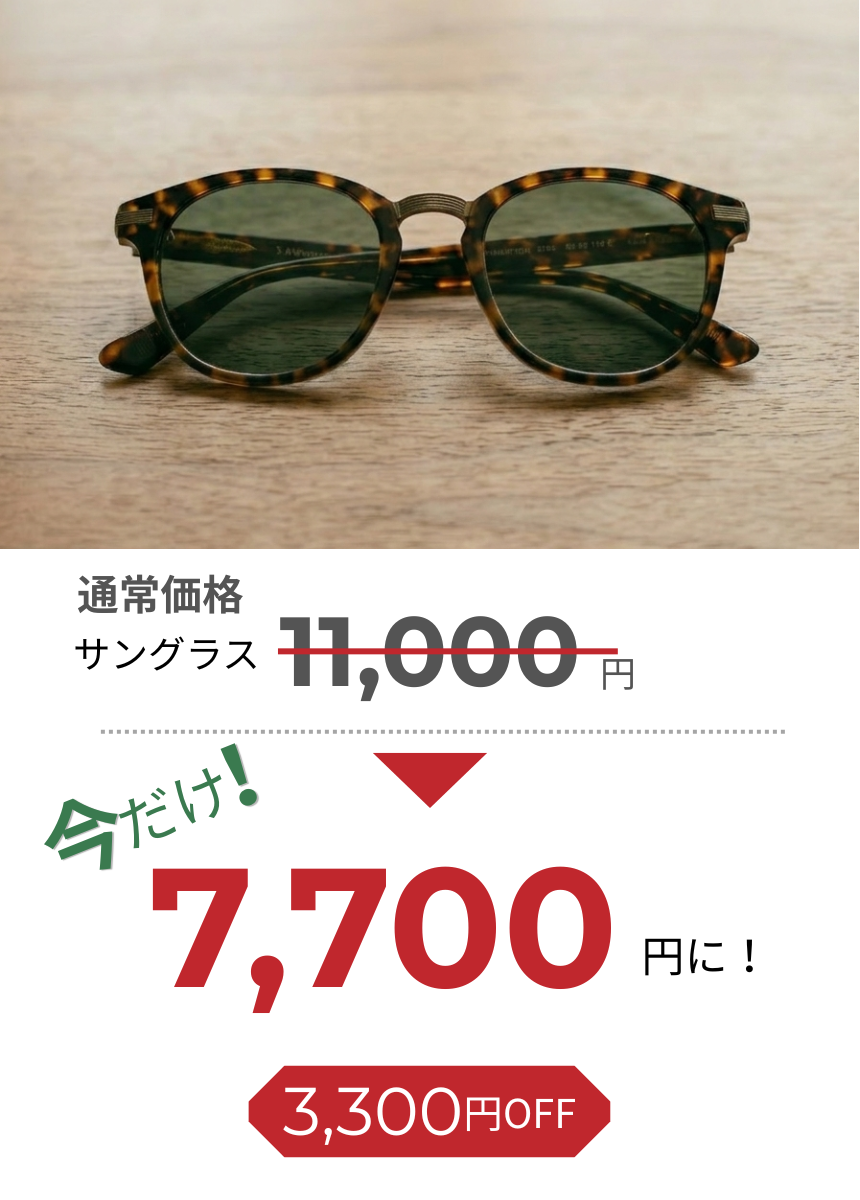
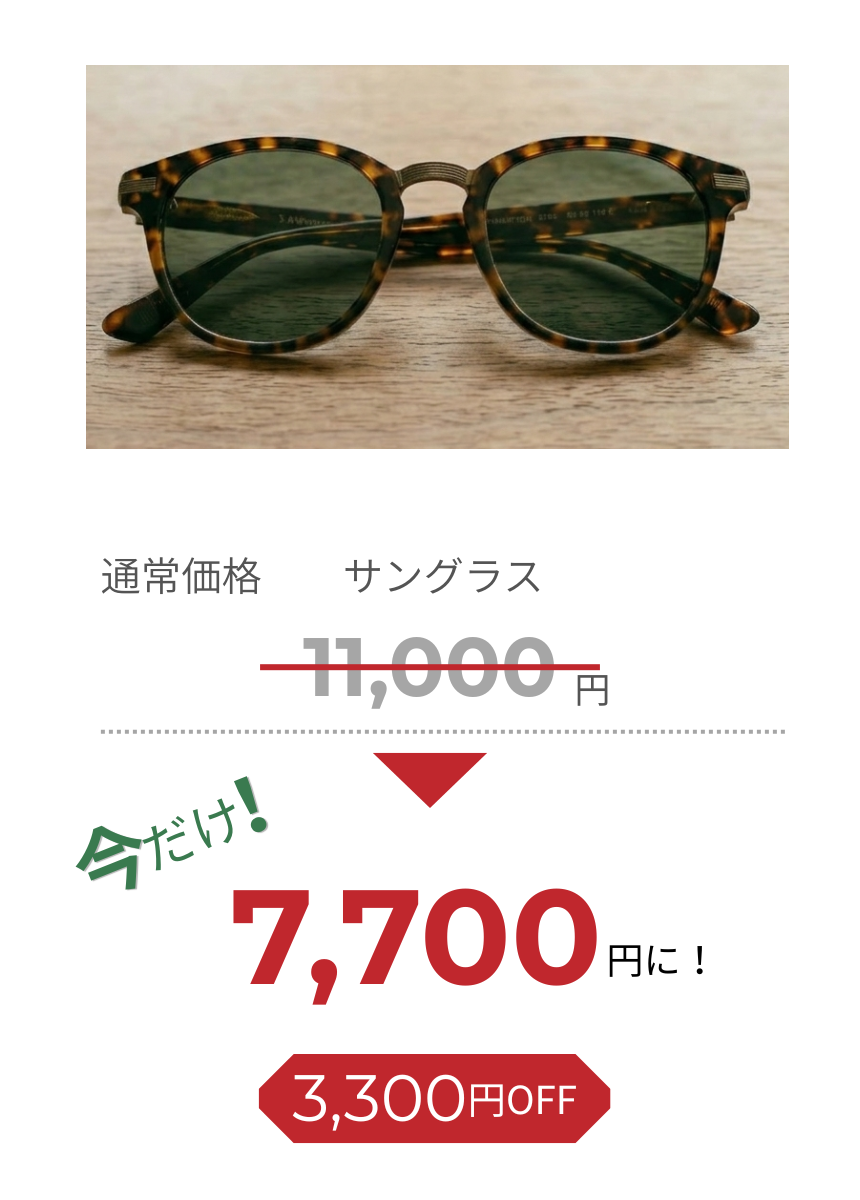
スマホFV画像化・遠近両用セクション改善・お得情報カード更新
- スマホFV: Illustratorで作成した1枚画像(FVSUMAHO.png)に差替、CTAボタンをオーバーレイ
- 遠近両用セクション: 「追加料金0円」を主役に再設計、ビジュアル式・チェックリスト追加
- 遠近両用: 注釈改善（薄型・コーティング・レンズのグレード変更等は別途料金）
- 遠近両用: レンズグレード詳細へのリンク追加
- お得情報: サブテキストをGWスロット訴求に変更
- お得情報: スマホCanvaカード更新（写真入りハイブリッド版）
- メガネアイコンをmegane1.svgに差替
- 不要画像削除（13200.png, A.png）

diff --git a/gw-fair.html b/gw-fair.html
@@ -1057,58 +1057,50 @@ footer {
     padding:0;
     background:var(--bg);
   }
-  /* 写真① — スマホ上側 */
+  /* ── スマホFV：1枚画像 + CTAボタン ── */
+  #hero {
+    min-height:auto;
+    flex-direction:column;
+    padding:0;
+  }
   .hero-photo-single {
     position:relative;width:100%;
     order:1;
-    overflow:hidden;
-    height:40vw;
+    overflow:visible;
+    top:auto;right:auto;bottom:auto;
+    height:auto;
   }
   .hero-photo-single img {
-    content:url('images/hero/hero-products-sp-top.png');
-    width:100%;height:100%;
-    object-fit:cover;
-    object-position:center center;
+    content:url('images/hero/FVSUMAHO.png');
+    width:100%;height:auto;
     display:block;
+    transform:none;
   }
   #hero::after { display:none; }
-  /* 緑カード① — GWフェア + スロットクーポンチャンス */
   .hw {
-    position:relative;
-    z-index:3;
-    width:100%;max-width:100%;
-    background:linear-gradient(90deg, #2E5A3A 0%, #3A7A4F 50%, #2E5A3A 100%);
-    padding:10px 24px 12px;
-    align-items:center;text-align:center;
-    transform:none;
+    display:none !important;
+  }
+  .hero-reel-deco { display:none !important; }
+  .hero-photo-sp-bottom { display:none !important; }
+  /* スマホ用CTA — 画像の上に重ねる（注釈と5500の間） */
+  .hero-sp-cta {
+    display:flex !important;
+    flex-direction:column;
+    align-items:center;
     order:2;
-    margin-top:-2px;
+    position:absolute;
+    bottom:33%;
+    left:0;right:0;
+    z-index:10;
+    background:none;
+    padding:0;
   }
-  .hw::before {
-    content:'';position:absolute;inset:0;
-    background:url('images/hero/slot-pattern.png') 80% 85%/130% auto no-repeat;
-    opacity:0.8;mix-blend-mode:multiply;pointer-events:none;z-index:0;
-  }
-  .hw::after { display:none !important; }
-  /* 写真② — スマホ：緑の後ろ */
-  .hero-photo-sp-bottom {
-    display:block;
-    width:100%;
-    order:3;
-    overflow:hidden;
-    height:40vw;
-    margin-top:-2px;
-  }
-  .hero-photo-sp-bottom img {
-    width:100%;height:100%;object-fit:cover;display:block;
-  }
-  /* スマホ用CTA — 非表示（hw内に統合） */
-  .hero-sp-cta { display:none !important; }
-  .hero-sp-cta .h-offer-unit { font-size:clamp(20px,5.5vw,28px);-webkit-text-stroke:2px #fff; }
-  .hero-sp-cta .btn-h { margin-top:12px; }
-  .hero-sp-cta-wrap { display:flex;flex-direction:column;align-items:flex-start;width:fit-content;margin:12px auto 0; }
+  .hero-sp-cta .h-offer-bottom-label { display:none; }
+  .hero-sp-cta .h-offer-line { display:none; }
+  .hero-sp-cta .btn-h { margin-top:0;font-size:15px;padding:10px 36px; }
+  .hero-sp-cta-wrap { display:flex;flex-direction:column;align-items:center;width:100%; }
   .hero-sp-cta-wrap .btn-h { width:auto;display:inline-block; }
-  .hero-sp-cta .h-note { margin-top:10px;margin-left:-76px;font-size:9px;color:rgba(255,255,255,0.85);line-height:1.7;text-align:left; }
+  .hero-sp-cta .h-note { display:none; }
   .h-gw-main { font-size:clamp(32px,9vw,44px);text-align:left;margin-bottom:0; }
   .h-title-group { align-self:flex-start;align-items:flex-start;margin-left:24px; }
   .h-offer-top-label { text-align:left; }
@@ -1823,28 +1815,95 @@ footer {
   background:linear-gradient(135deg, #fff 0%, #F0F8F2 100%);
   box-shadow:0 4px 20px rgba(58,122,79,0.1);
 }
-.pex-enkin-main {
-  font-size:clamp(20px,5vw,32px);font-weight:900;
-  color:var(--ink);line-height:1.4;
+/* メイン文言 */
+.enkin-lead {
+  font-size:clamp(13px,2.5vw,16px);font-weight:700;
+  color:var(--ink-lt);letter-spacing:.06em;
+  margin-bottom:4px;
 }
-.pex-enkin-main strong {
+.enkin-headline {
+  font-size:clamp(18px,4vw,26px);font-weight:900;
+  color:var(--ink);line-height:1.4;
+  margin-bottom:8px;
+}
+/* 追加料金 0 円（主役） */
+.enkin-zero-row {
+  display:flex;align-items:baseline;justify-content:center;gap:4px;
+  margin-bottom:clamp(16px,3vw,24px);
+}
+.enkin-zero-label {
+  font-size:clamp(18px,3.5vw,24px);font-weight:900;
   color:var(--green);
 }
 .pex-enkin-zero {
   font-family:'Montserrat','Noto Sans JP',sans-serif;
-  font-size:clamp(48px,12vw,80px);font-weight:800;
-  color:var(--green);line-height:1;
+  font-size:clamp(72px,18vw,120px);font-weight:900;
+  color:var(--green);line-height:.85;
   display:inline-block;
-  margin:0 2px;
+  margin:0 4px;
 }
-.pex-enkin-sub {
-  margin-top:10px;
-  font-size:clamp(13px,2.5vw,16px);font-weight:600;
-  color:var(--ink);letter-spacing:.04em;
+.enkin-zero-yen {
+  font-size:clamp(22px,4.5vw,32px);font-weight:900;
+  color:var(--green);
+}
+/* ビジュアル式（小さめ補足） */
+.enkin-visual {
+  display:flex;align-items:center;justify-content:center;
+  gap:clamp(10px,2vw,18px);
+  padding:clamp(12px,2vw,16px) 0;
+  border-top:1px solid var(--border);
+  border-bottom:1px solid var(--border);
+  margin-bottom:clamp(12px,2.5vw,20px);
+}
+.enkin-item {
+  display:flex;flex-direction:column;align-items:center;gap:4px;
+}
+.enkin-icon {
+  width:clamp(48px,8vw,64px);height:auto;
+  filter:invert(30%) sepia(15%) saturate(1200%) hue-rotate(100deg) brightness(0.6);
+}
+.enkin-item-label {
+  font-size:clamp(10px,1.8vw,13px);font-weight:600;color:var(--ink-lt);letter-spacing:.04em;
+}
+.enkin-op {
+  font-family:'Montserrat',sans-serif;
+  font-size:clamp(20px,3.5vw,28px);font-weight:300;
+  color:var(--green);line-height:1;
+}
+.enkin-eq-text {
+  font-size:clamp(13px,2.5vw,16px);font-weight:800;
+  color:var(--green);letter-spacing:.04em;
+}
+/* チェックリスト（1行） */
+.enkin-checks {
+  display:flex;align-items:center;justify-content:center;
+  gap:clamp(12px,3vw,24px);
+  margin-bottom:clamp(10px,2vw,16px);
+}
+.enkin-check {
+  font-size:clamp(13px,2.5vw,16px);font-weight:700;
+  color:var(--ink);
+  display:flex;align-items:center;gap:4px;
+}
+.enkin-check-icon {
+  color:var(--green);font-weight:900;font-size:1.2em;
 }
 .pex-enkin-note {
   margin-top:8px;
   font-size:clamp(10px,2vw,12px);color:var(--ink-lt);
+  line-height:1.8;
+}
+.enkin-link {
+  display:inline-block;
+  margin-top:8px;
+  font-size:clamp(11px,2.2vw,13px);
+  font-weight:700;
+  color:var(--green);
+  text-decoration:none;
+  letter-spacing:.04em;
+}
+.enkin-link:hover {
+  text-decoration:underline;
 }
 .pex-target {
   margin-top:16px;
@@ -2136,7 +2195,7 @@ document.getElementById('pw-input').addEventListener('keydown',function(e){if(e.
   <div class="pex-inner">
     <p class="sl rv">Price Info</p>
     <h2 class="st rv">お得情報</h2>
-    <p class="pex-sub-text rv">◇1等 5,500円OFFクーポンを使用した場合</p>
+    <p class="pex-sub-text rv">GW期間中にお店でスロットにチャレンジ！<br>最大5,500円OFFクーポンをGETしよう</p>
 
     <!-- 横長1枚カード -->
     <div class="pex-one rv">
@@ -2173,9 +2232,42 @@ document.getElementById('pw-input').addEventListener('keydown',function(e){if(e.
 
     <!-- 遠近両用レンズ訴求 -->
     <div class="pex-enkin rv">
-      <p class="pex-enkin-main">遠近両用も<strong>&ldquo;追加料金<span class="pex-enkin-zero">0</span>&rdquo;</strong></p>
-      <p class="pex-enkin-sub">フレーム＋標準レンズのセット価格そのまま</p>
-      <p class="pex-enkin-note">◇標準遠近両用レンズ使用時　◇薄型・コーティング等のオプションレンズは別途料金</p>
+      <!-- メインメッセージ -->
+      <p class="enkin-lead">選んだセット価格のまま</p>
+      <p class="enkin-headline">遠近両用レンズに変更しても</p>
+      <div class="enkin-zero-row">
+        <span class="enkin-zero-label">追加料金</span>
+        <span class="pex-enkin-zero">0</span>
+        <span class="enkin-zero-yen">円</span>
+      </div>
+
+      <!-- ビジュアル式 -->
+      <div class="enkin-visual">
+        <div class="enkin-item">
+          <img src="images/logo/megane1.svg" alt="メガネ" class="enkin-icon">
+          <span class="enkin-item-label">フレーム</span>
+        </div>
+        <span class="enkin-op">+</span>
+        <div class="enkin-item">
+          <svg xmlns="http://www.w3.org/2000/svg" viewBox="0 0 100 60" width="64" height="38">
+            <circle cx="30" cy="30" r="22" fill="none" stroke="#2E5A3A" stroke-width="2.5"/>
+            <circle cx="70" cy="30" r="22" fill="none" stroke="#2E5A3A" stroke-width="2.5"/>
+          </svg>
+          <span class="enkin-item-label">標準レンズ</span>
+        </div>
+        <span class="enkin-op">=</span>
+        <span class="enkin-eq-text">セット価格のまま</span>
+      </div>
+
+      <!-- 対象レンズ -->
+      <div class="enkin-checks">
+        <span class="enkin-check"><span class="enkin-check-icon">✓</span>遠近両用</span>
+        <span class="enkin-check"><span class="enkin-check-icon">✓</span>中近両用</span>
+        <span class="enkin-check"><span class="enkin-check-icon">✓</span>近々両用</span>
+      </div>
+
+      <p class="pex-enkin-note">◇標準レンズの場合<br>◇薄型・コーティング・レンズのグレード変更等は別途料金</p>
+      <a href="https://www.aimegane.com/lens/" class="enkin-link" target="_blank" rel="noopener">レンズのグレードについて ▶</a>
     </div>
 
   </div>
